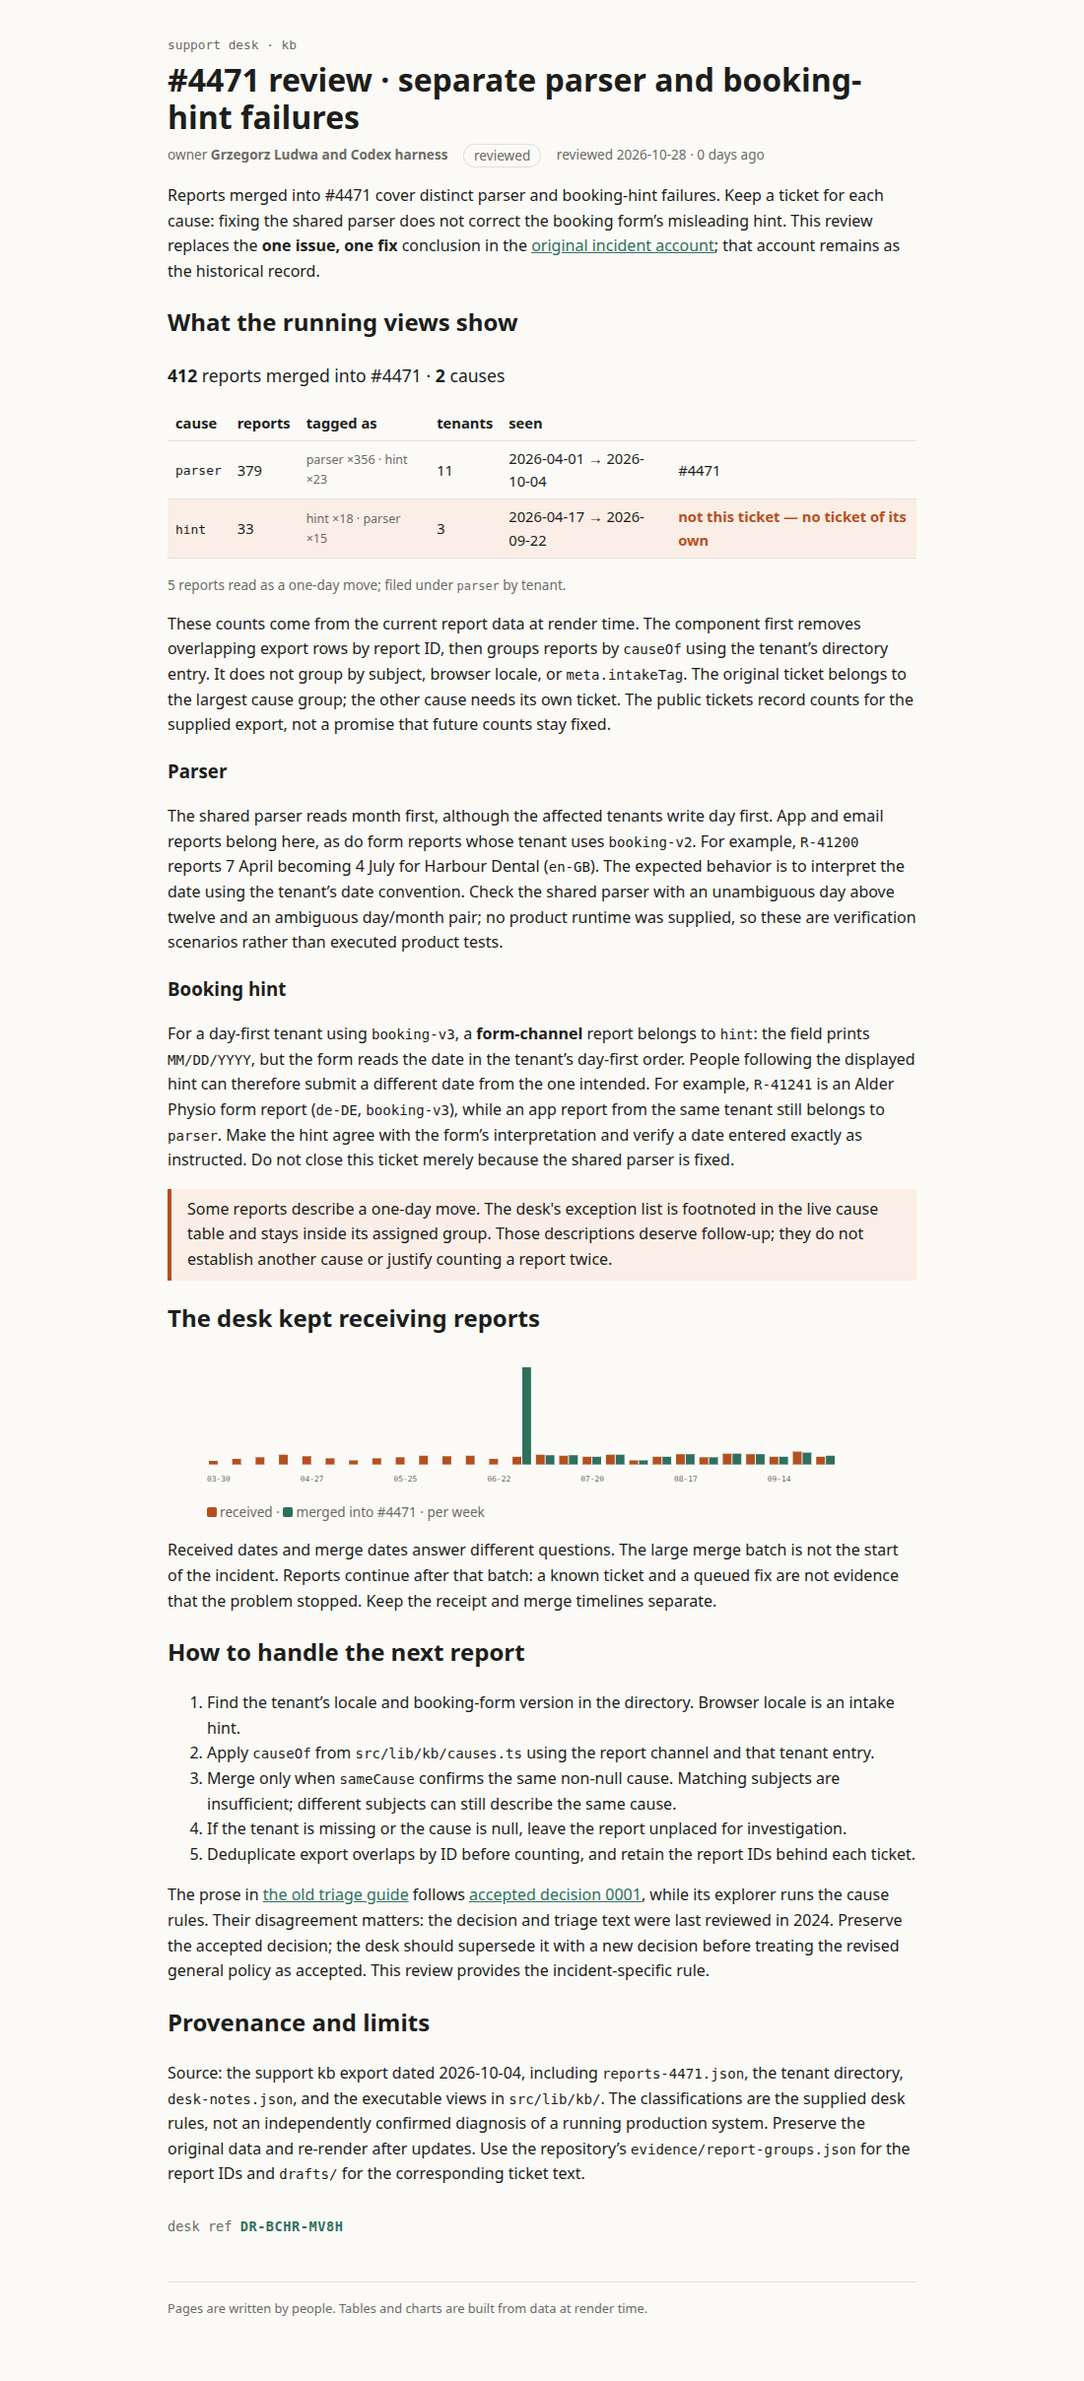
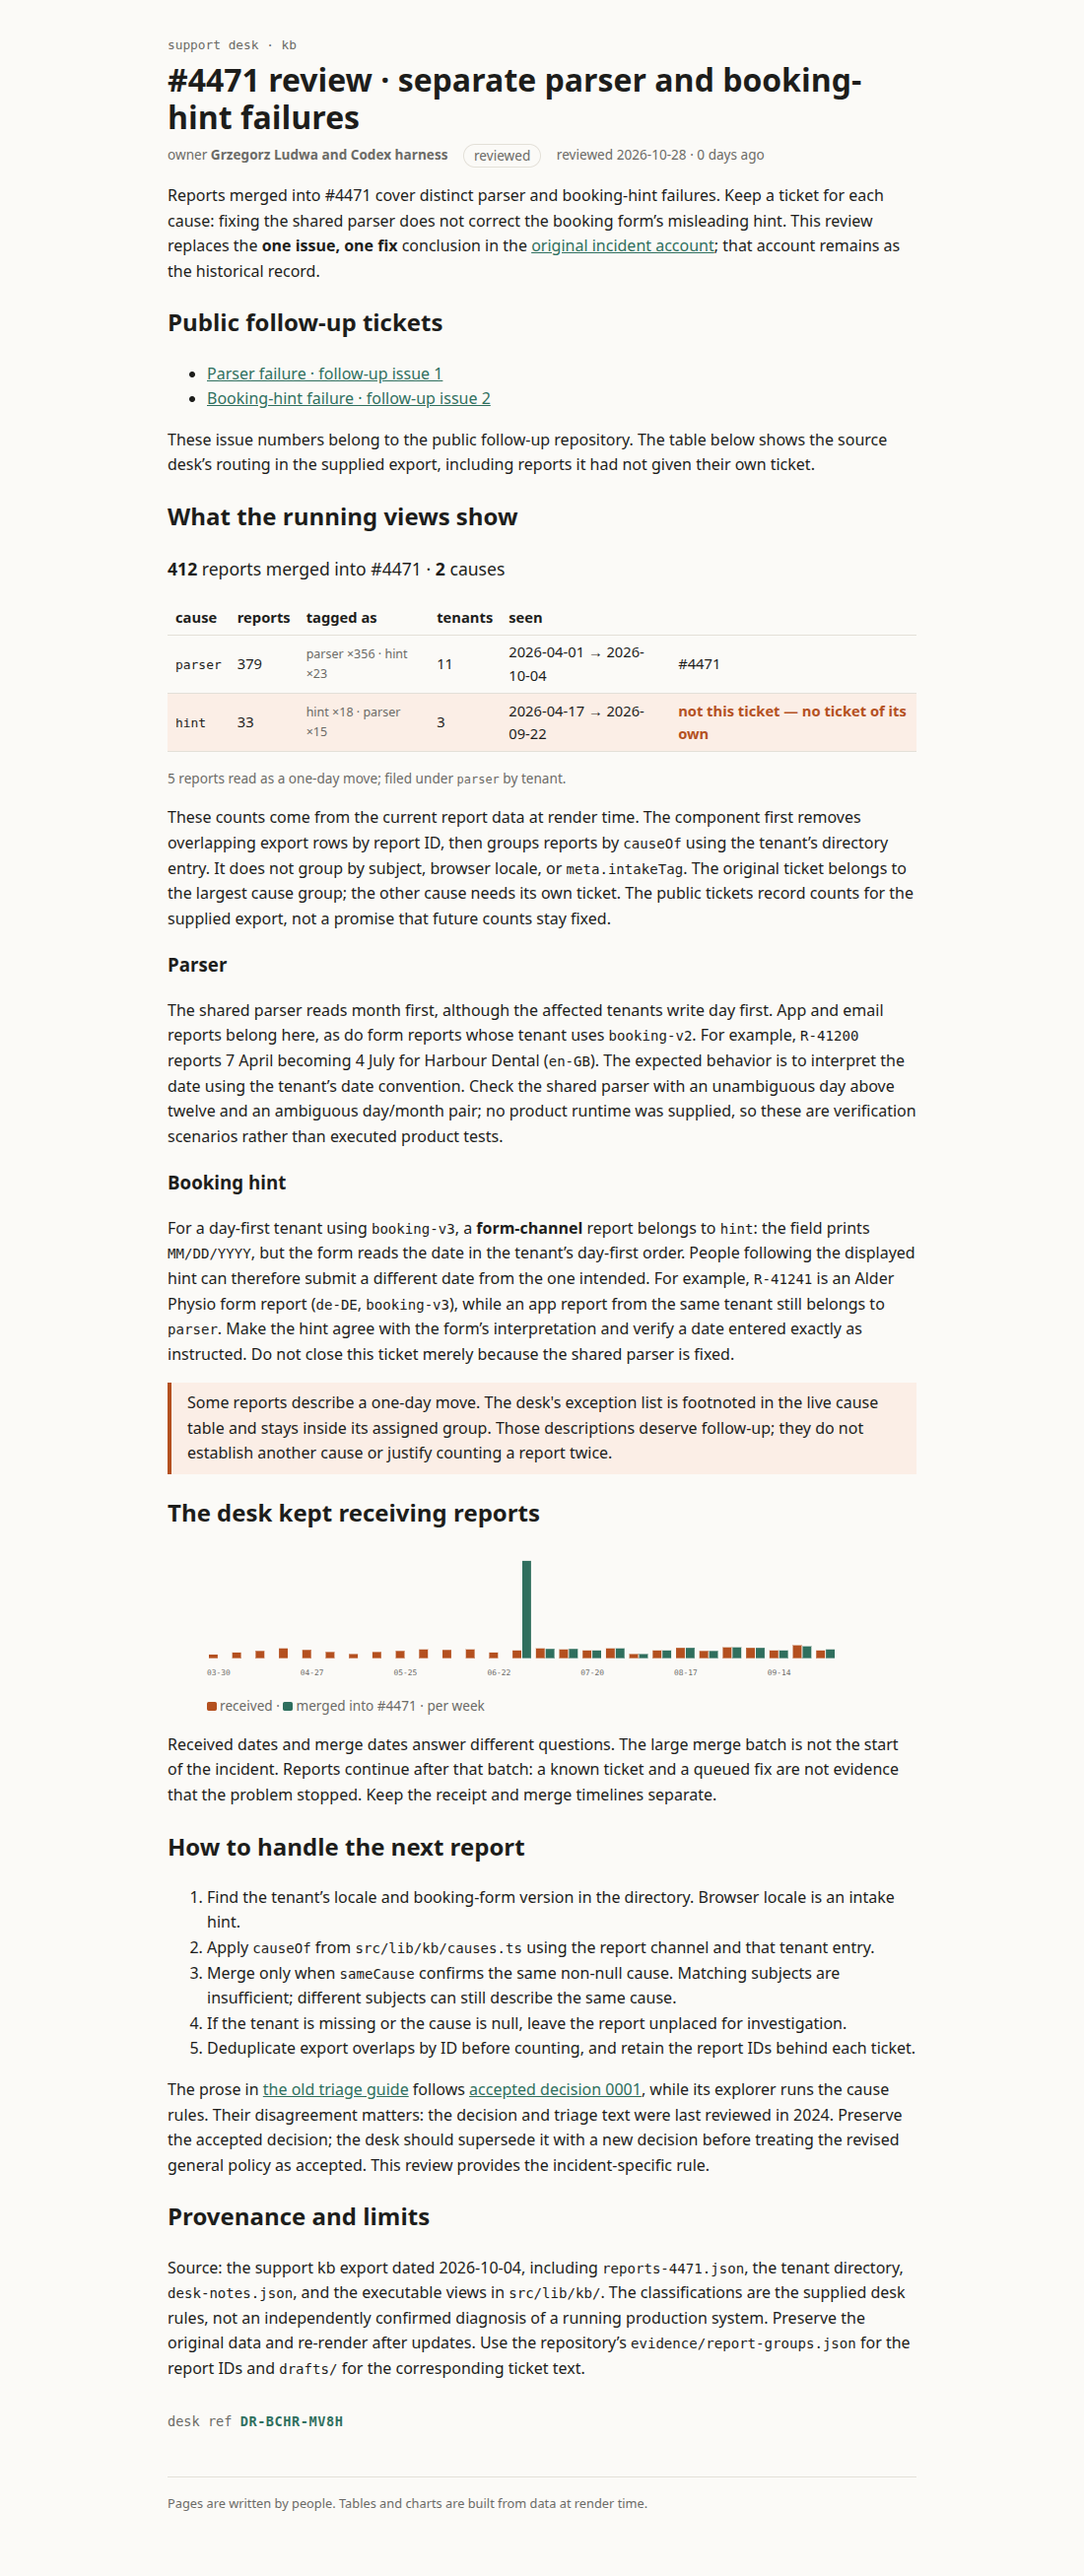
Link public follow-up issues from the signed KB review

Changed region(s): [[0.1545, 0.0, 0.8345, 0.993], [0.4327, 0.9619, 0.5873, 0.993]]

diff --git a/rendered/kb/incidents/4471-review/index.html b/rendered/kb/incidents/4471-review/index.html
@@ -3,7 +3,8 @@
   @media (prefers-color-scheme: dark) {:root {--bg: #171716;--fg: #ecebe6;--muted: #9c9a93;--line: #34332f;--accent: #6fbfa6;--warn: #f0905d;--warn-bg: #3a2418;--note-bg: #1d2c27;}
   }body {margin:0;background:var(--bg);color:var(--fg);font:16px/1.6 system-ui, sans-serif;}.kb table {border-collapse:collapse;width:100%;margin:1rem 0;font-size:0.92rem;}.kb th, .kb td {border-bottom:1px solid var(--line);padding:0.35rem 0.5rem;text-align:left;}.kb code {font-family:var(--mono);font-size:0.88em;}.kb a {color:var(--accent);}.kb.svelte-e2jw2j {max-width:760px;margin:0 auto;padding:2rem 16px 4rem;}.crumb.svelte-e2jw2j {font:0.8rem var(--mono);text-decoration:none;color:var(--muted);}h1.svelte-e2jw2j {margin:0.25rem 0 0.5rem;line-height:1.2;}.meta.svelte-e2jw2j {display:flex;flex-wrap:wrap;gap:0.5rem 1rem;color:var(--muted);font-size:0.85rem;margin:0;}.status.svelte-e2jw2j {border:1px solid var(--line);border-radius:99px;padding:0 0.6rem;}.stale.svelte-e2jw2j {color:var(--warn);font-weight:600;}.banner.svelte-e2jw2j {background:var(--warn-bg);color:var(--warn);padding:0.6rem 1rem;border-radius:6px;}footer.svelte-e2jw2j {margin-top:3rem;color:var(--muted);font-size:0.8rem;border-top:1px solid var(--line);padding-top:1rem;}</style><style id="svelte-12oyimm">.sum.svelte-12oyimm {font-size:1.1rem;}.tags.svelte-12oyimm {color:var(--muted);font-size:0.85em;}.note.svelte-12oyimm {color:var(--muted);font-size:0.85em;}.wrong.svelte-12oyimm td:where(.svelte-12oyimm) {background:var(--warn-bg);}.wrong.svelte-12oyimm td:where(.svelte-12oyimm):last-child {color:var(--warn);font-weight:600;}</style><style id="svelte-17bri61">aside.svelte-17bri61 {border-left:4px solid var(--accent);padding:0.5rem 1rem;margin:1rem 0;background:var(--note-bg);}aside.warn.svelte-17bri61 {border-color:var(--warn);background:var(--warn-bg);}</style><style id="svelte-18a6qal">svg.svelte-18a6qal {width:100%;max-width:640px;}.in.svelte-18a6qal {fill:var(--warn);}.merged.svelte-18a6qal {fill:var(--accent);}text.svelte-18a6qal {font:8px var(--mono);fill:var(--muted);text-anchor:middle;}figcaption.svelte-18a6qal {color:var(--muted);font-size:0.85rem;}.key.svelte-18a6qal {display:inline-block;width:0.7em;height:0.7em;border-radius:2px;}.key.in.svelte-18a6qal {background:var(--warn);}.key.merged.svelte-18a6qal {background:var(--accent);}</style><style id="svelte-1280m42">.stamp.svelte-1280m42 {margin:2rem 0 0;font:0.85rem var(--mono);color:var(--muted);}.stamp.svelte-1280m42 b:where(.svelte-1280m42) {color:var(--accent);letter-spacing:0.04em;}.missing.svelte-1280m42 {color:var(--warn);}</style></head><body><!--[--><div class="kb svelte-e2jw2j"><header><a class="crumb svelte-e2jw2j" href="/kb">support desk · kb</a> <h1 class="svelte-e2jw2j">#4471 review · separate parser and booking-hint failures</h1> <p class="meta svelte-e2jw2j"><span>owner <b>Grzegorz Ludwa and Codex harness</b></span> <span class="status reviewed svelte-e2jw2j">reviewed</span> <span class="svelte-e2jw2j">reviewed 2026-10-28 · 0 days ago</span></p></header> <!--[-1--><!--]--> <main><p>Reports merged into #4471 cover distinct parser and booking-hint failures. Keep a ticket for
 each cause: fixing the shared parser does not correct the booking form’s misleading hint.
-This review replaces the <strong>one issue, one fix</strong> conclusion in the <a href="/kb/incidents/4471">original incident account</a>; that account remains as the historical record.</p> <h2>What the running views show</h2> <p class="sum svelte-12oyimm"><strong>412</strong> reports merged into #4471 · <strong>2</strong> causes</p> <table><thead><tr><th>cause</th><th>reports</th><th>tagged as</th><th>tenants</th><th>seen</th><th></th></tr></thead><tbody><!--[--><tr class="svelte-12oyimm"><td class="svelte-12oyimm"><code>parser</code></td><td class="svelte-12oyimm">379</td><td class="tags svelte-12oyimm">parser ×356 · hint ×23</td><td class="svelte-12oyimm">11</td><td class="svelte-12oyimm">2026-04-01 → 2026-10-04</td><td class="svelte-12oyimm">#4471</td></tr><tr class="svelte-12oyimm wrong"><td class="svelte-12oyimm"><code>hint</code></td><td class="svelte-12oyimm">33</td><td class="tags svelte-12oyimm">hint ×18 · parser ×15</td><td class="svelte-12oyimm">3</td><td class="svelte-12oyimm">2026-04-17 → 2026-09-22</td><td class="svelte-12oyimm">not this ticket — no ticket of its own</td></tr><!--]--></tbody></table> <!--[--><!--[0--><p class="note svelte-12oyimm">5 reports read as a one-day move; filed under <code>parser</code> by tenant.</p><!--]--><!--[-1--><!--]--><!--]--><!----> <p>These counts come from the current report data at render time. The component first removes
+This review replaces the <strong>one issue, one fix</strong> conclusion in the <a href="/kb/incidents/4471">original incident account</a>; that account remains as the historical record.</p> <h2>Public follow-up tickets</h2> <ul><li><a href="https://github.com/grzegorzludwa/mega-s01e03-what-it-shows/issues/1" rel="nofollow">Parser failure · follow-up issue 1</a></li> <li><a href="https://github.com/grzegorzludwa/mega-s01e03-what-it-shows/issues/2" rel="nofollow">Booking-hint failure · follow-up issue 2</a></li></ul> <p>These issue numbers belong to the public follow-up repository. The table below shows the
+source desk’s routing in the supplied export, including reports it had not given their own ticket.</p> <h2>What the running views show</h2> <p class="sum svelte-12oyimm"><strong>412</strong> reports merged into #4471 · <strong>2</strong> causes</p> <table><thead><tr><th>cause</th><th>reports</th><th>tagged as</th><th>tenants</th><th>seen</th><th></th></tr></thead><tbody><!--[--><tr class="svelte-12oyimm"><td class="svelte-12oyimm"><code>parser</code></td><td class="svelte-12oyimm">379</td><td class="tags svelte-12oyimm">parser ×356 · hint ×23</td><td class="svelte-12oyimm">11</td><td class="svelte-12oyimm">2026-04-01 → 2026-10-04</td><td class="svelte-12oyimm">#4471</td></tr><tr class="svelte-12oyimm wrong"><td class="svelte-12oyimm"><code>hint</code></td><td class="svelte-12oyimm">33</td><td class="tags svelte-12oyimm">hint ×18 · parser ×15</td><td class="svelte-12oyimm">3</td><td class="svelte-12oyimm">2026-04-17 → 2026-09-22</td><td class="svelte-12oyimm">not this ticket — no ticket of its own</td></tr><!--]--></tbody></table> <!--[--><!--[0--><p class="note svelte-12oyimm">5 reports read as a one-day move; filed under <code>parser</code> by tenant.</p><!--]--><!--[-1--><!--]--><!--]--><!----> <p>These counts come from the current report data at render time. The component first removes
 overlapping export rows by report ID, then groups reports by <code>causeOf</code> using the tenant’s
 directory entry. It does not group by subject, browser locale, or <code>meta.intakeTag</code>.
 The original ticket belongs to the largest cause group; the other cause needs its own ticket.

diff --git a/REVIEW.md b/REVIEW.md
@@ -52,9 +52,14 @@ and [browser observations](evidence/browser-review.json).
 The original ZIP has SHA-256
[1 lines of base64/hex data omitted]
 
-## Pending
+## Published
 
 - The student approved creating `grzegorzludwa/mega-s01e03-what-it-shows` as a public GitHub
   repository, pushing the kb source, rendered pages, and evidence, and creating the drafted issues.
-- Publish the approved repository and issues.
+- Repository: [mega-s01e03-what-it-shows](https://github.com/grzegorzludwa/mega-s01e03-what-it-shows).
+- [Parser issue 1](https://github.com/grzegorzludwa/mega-s01e03-what-it-shows/issues/1): 379 reports.
+- [Booking-hint issue 2](https://github.com/grzegorzludwa/mega-s01e03-what-it-shows/issues/2): 33 reports.
+
+## Pending
+
 - Course submission, acceptance, and debrief.
